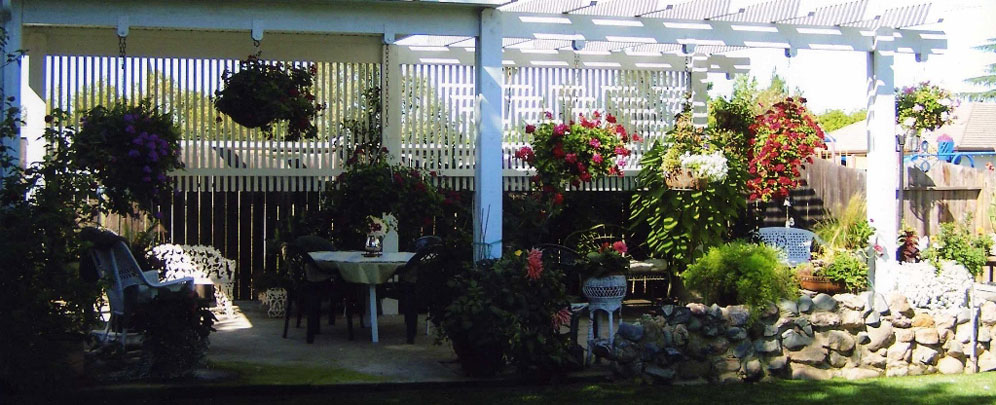
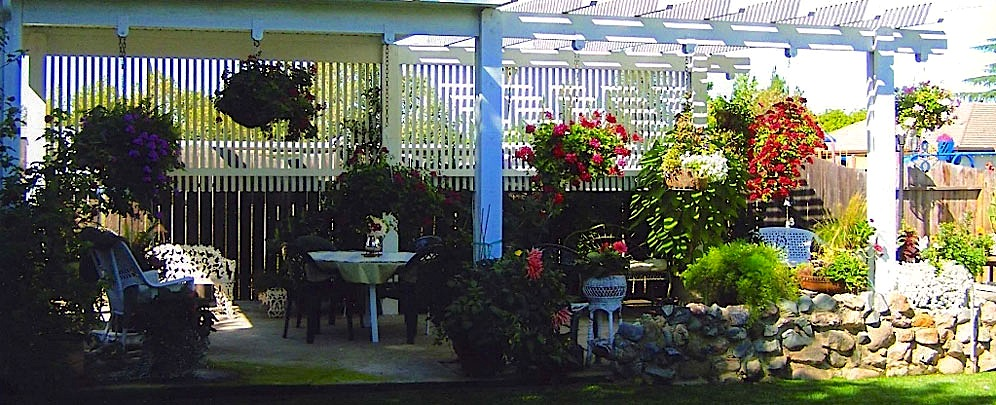
Wrapping it up, merging branches.

diff --git a/project/aboutus.html b/project/aboutus.html
@@ -46,7 +46,7 @@
     </nav>
   </header>
   <section class="grid_12">
-    <div class="grid_9 alpha"> <img src="images/patio_livermore.jpg" alt="Relaxing Backyard Patio Cover">
+    <div class="grid_9 alpha"> <img src="images/patio-livermore2.jpg" alt="Relaxing Backyard Patio Cover">
       <h2>Welcome to Creative Designs & Beyond....for all of your Shading Solutions.</h2>
       <h3>Beyond Dreams...to Reality!</h3>
       <p>Creative Designs &amp; Beyond is a Bay Area screened porch and patio construction
